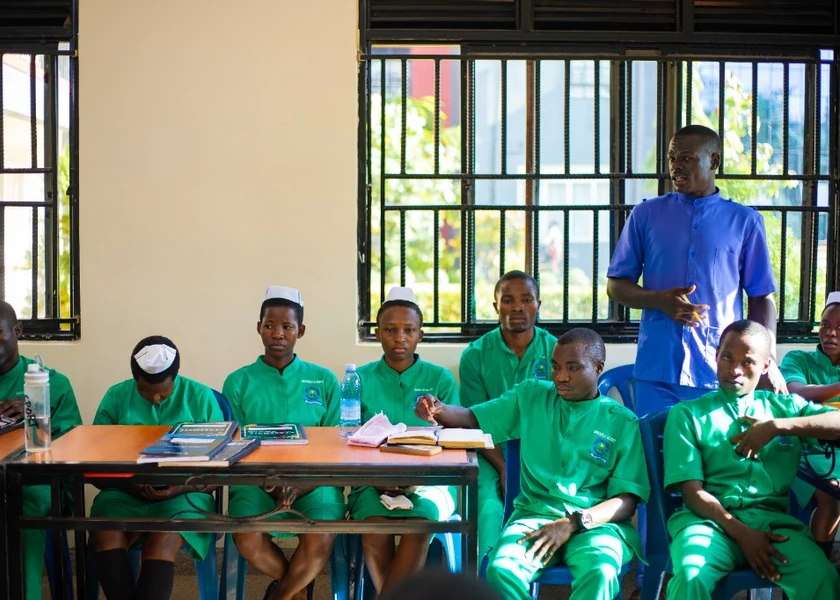
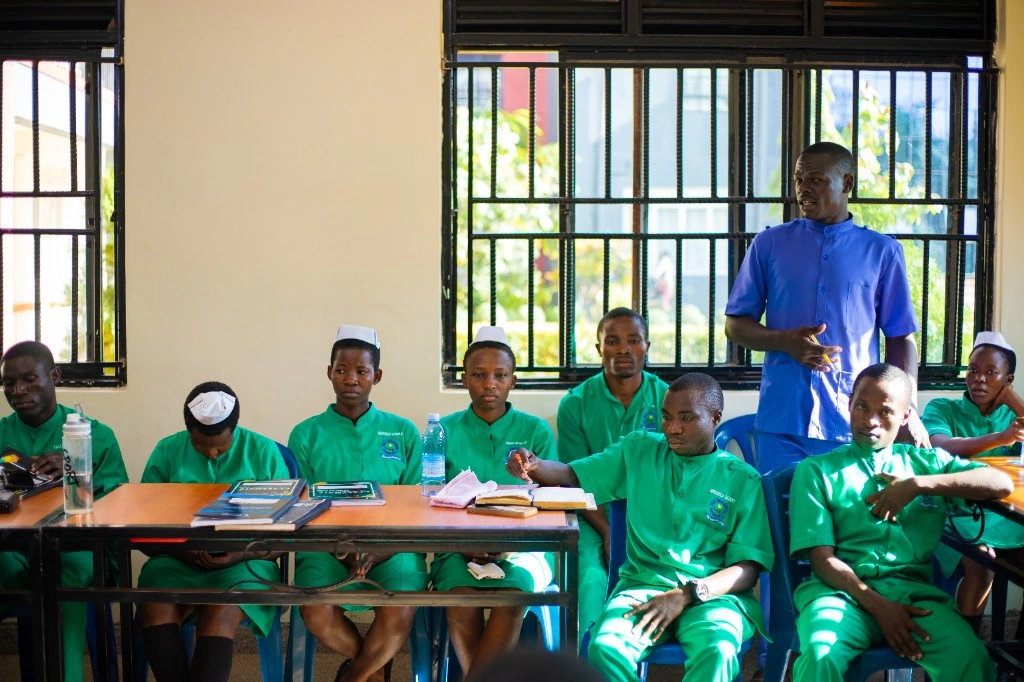
Sharpen course card photos with full-resolution exports.
Serve pre-optimized programme images directly at native resolution and widen the card image column to avoid upscaling blur.

diff --git a/src/app/(marketing)/academics/page.tsx b/src/app/(marketing)/academics/page.tsx
@@ -32,14 +32,15 @@ export default function AcademicsPage() {
                 id={program.id}
                 className="scroll-mt-28 overflow-hidden rounded-3xl content-panel"
               >
-                <div className="grid lg:grid-cols-[280px_1fr]">
-                  <div className="relative min-h-[200px] overflow-hidden bg-surface lg:rounded-l-3xl">
+                <div className="grid lg:grid-cols-[360px_1fr]">
+                  <div className="relative min-h-[240px] overflow-hidden bg-surface sm:min-h-[280px] lg:min-h-0 lg:rounded-l-3xl">
                     <Image
                       src={program.image}
                       alt={program.title}
                       fill
+                      unoptimized
                       className="object-cover"
-                      sizes="280px"
+                      sizes="(max-width: 1024px) 100vw, 360px"
                     />
                   </div>
                   <div className="p-6 sm:p-8">
